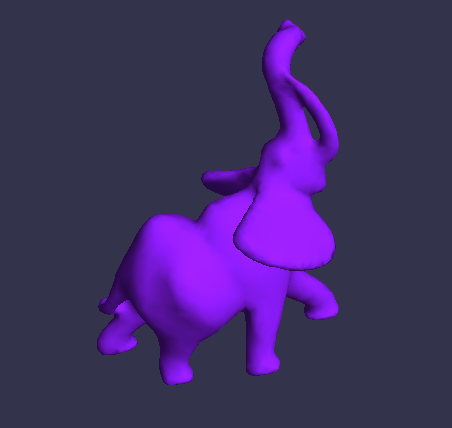
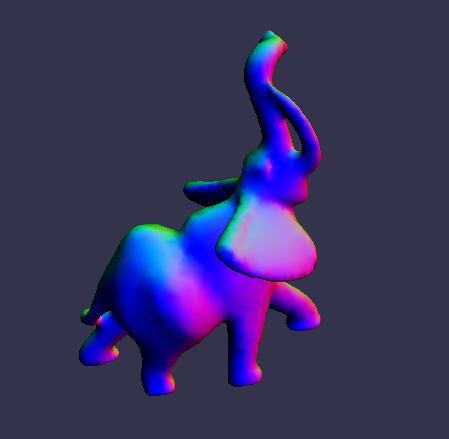
Améliorations

Changed region(s): [[0.1559, 0.0304, 0.7483, 0.9112]]

diff --git a/tp.cpp b/tp.cpp
@@ -60,45 +60,42 @@ struct Mesh {
     std::vector<unsigned int> triangleArray;
 
     void buildVertexArray() {
-        this->positionArray.clear();
-        for(unsigned int i = 0 ; i < this->vertices.size() ; i++) {
-            this->positionArray.push_back(this->vertices[i][0]);
-            this->positionArray.push_back(this->vertices[i][1]);
-            this->positionArray.push_back(this->vertices[i][2]);
+        positionArray.clear();
+        for(unsigned int i = 0 ; i < vertices.size() ; i++) {
+            positionArray.push_back(vertices[i][0]);
+            positionArray.push_back(vertices[i][1]);
+            positionArray.push_back(vertices[i][2]);
         }
     }
 
     void buildTriangleArray() {
-        this->triangleArray.clear();
-        for(unsigned int i = 0 ; i < this->triangles.size() ; i++) {
-            this->triangleArray.push_back(this->triangles[i][0]);
-            this->triangleArray.push_back(this->triangles[i][1]);
-            this->triangleArray.push_back(this->triangles[i][2]);
+        triangleArray.clear();
+        for(unsigned int i = 0 ; i < triangles.size() ; i++) {
+            triangleArray.push_back(triangles[i][0]);
+            triangleArray.push_back(triangles[i][1]);
+            triangleArray.push_back(triangles[i][2]);
         }
     }
 
     std::vector<float> normalArray;
 
     void buildNormalArray() {
-        this->normalArray.clear();
-        for(unsigned int i = 0 ; i < this->normals.size() ; i++) {
-            this->normalArray.push_back(this->normals[i][0]);
-            this->normalArray.push_back(this->normals[i][1]);
-            this->normalArray.push_back(this->normals[i][2]);
+        normalArray.clear();
+        for(unsigned int i = 0 ; i < normals.size() ; i++) {
+            normalArray.push_back(normals[i][0]);
+            normalArray.push_back(normals[i][1]);
+            normalArray.push_back(normals[i][2]);
         }
     }
 
     std::vector<float> colorArray;
 
     void buildColorArray() {
-        this->colorArray.clear();
-        for(unsigned int i = 0 ; i < this->vertices.size() ; i++) {
-            /*this->colorArray.push_back(this->vertices[i][0]);
-            this->colorArray.push_back(this->vertices[i][1]);
-            this->colorArray.push_back(this->vertices[i][2]);*/
-            this->colorArray.push_back(0.5);
-            this->colorArray.push_back(0.1);
-            this->colorArray.push_back(0.9);
+        colorArray.clear();
+        for(unsigned int i = 0 ; i < normals.size() ; i++) {
+            colorArray.push_back(normals[i][0]);
+            colorArray.push_back(normals[i][1]);
+            colorArray.push_back(normals[i][2]);
         }
     }
     //
